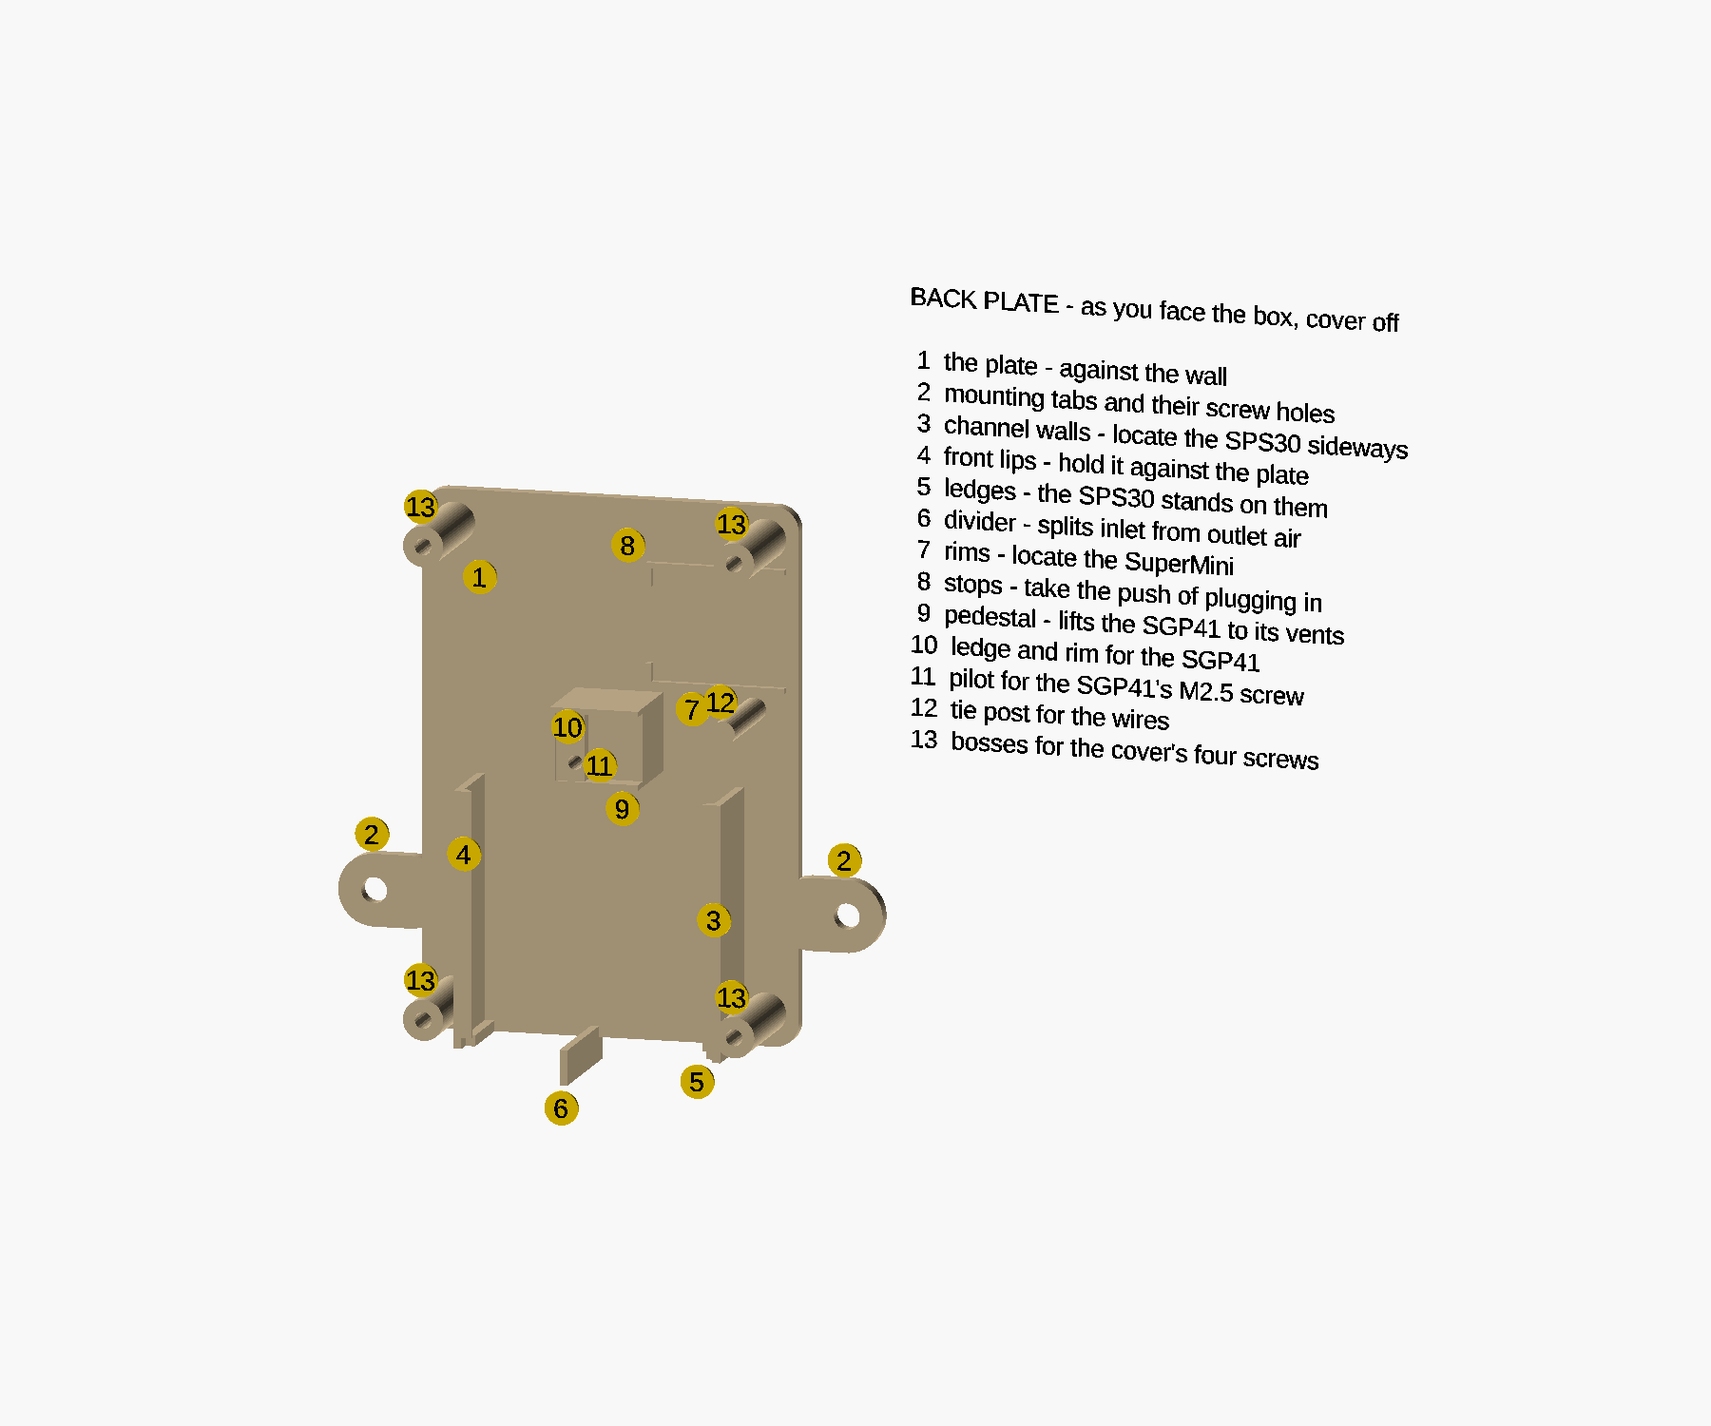
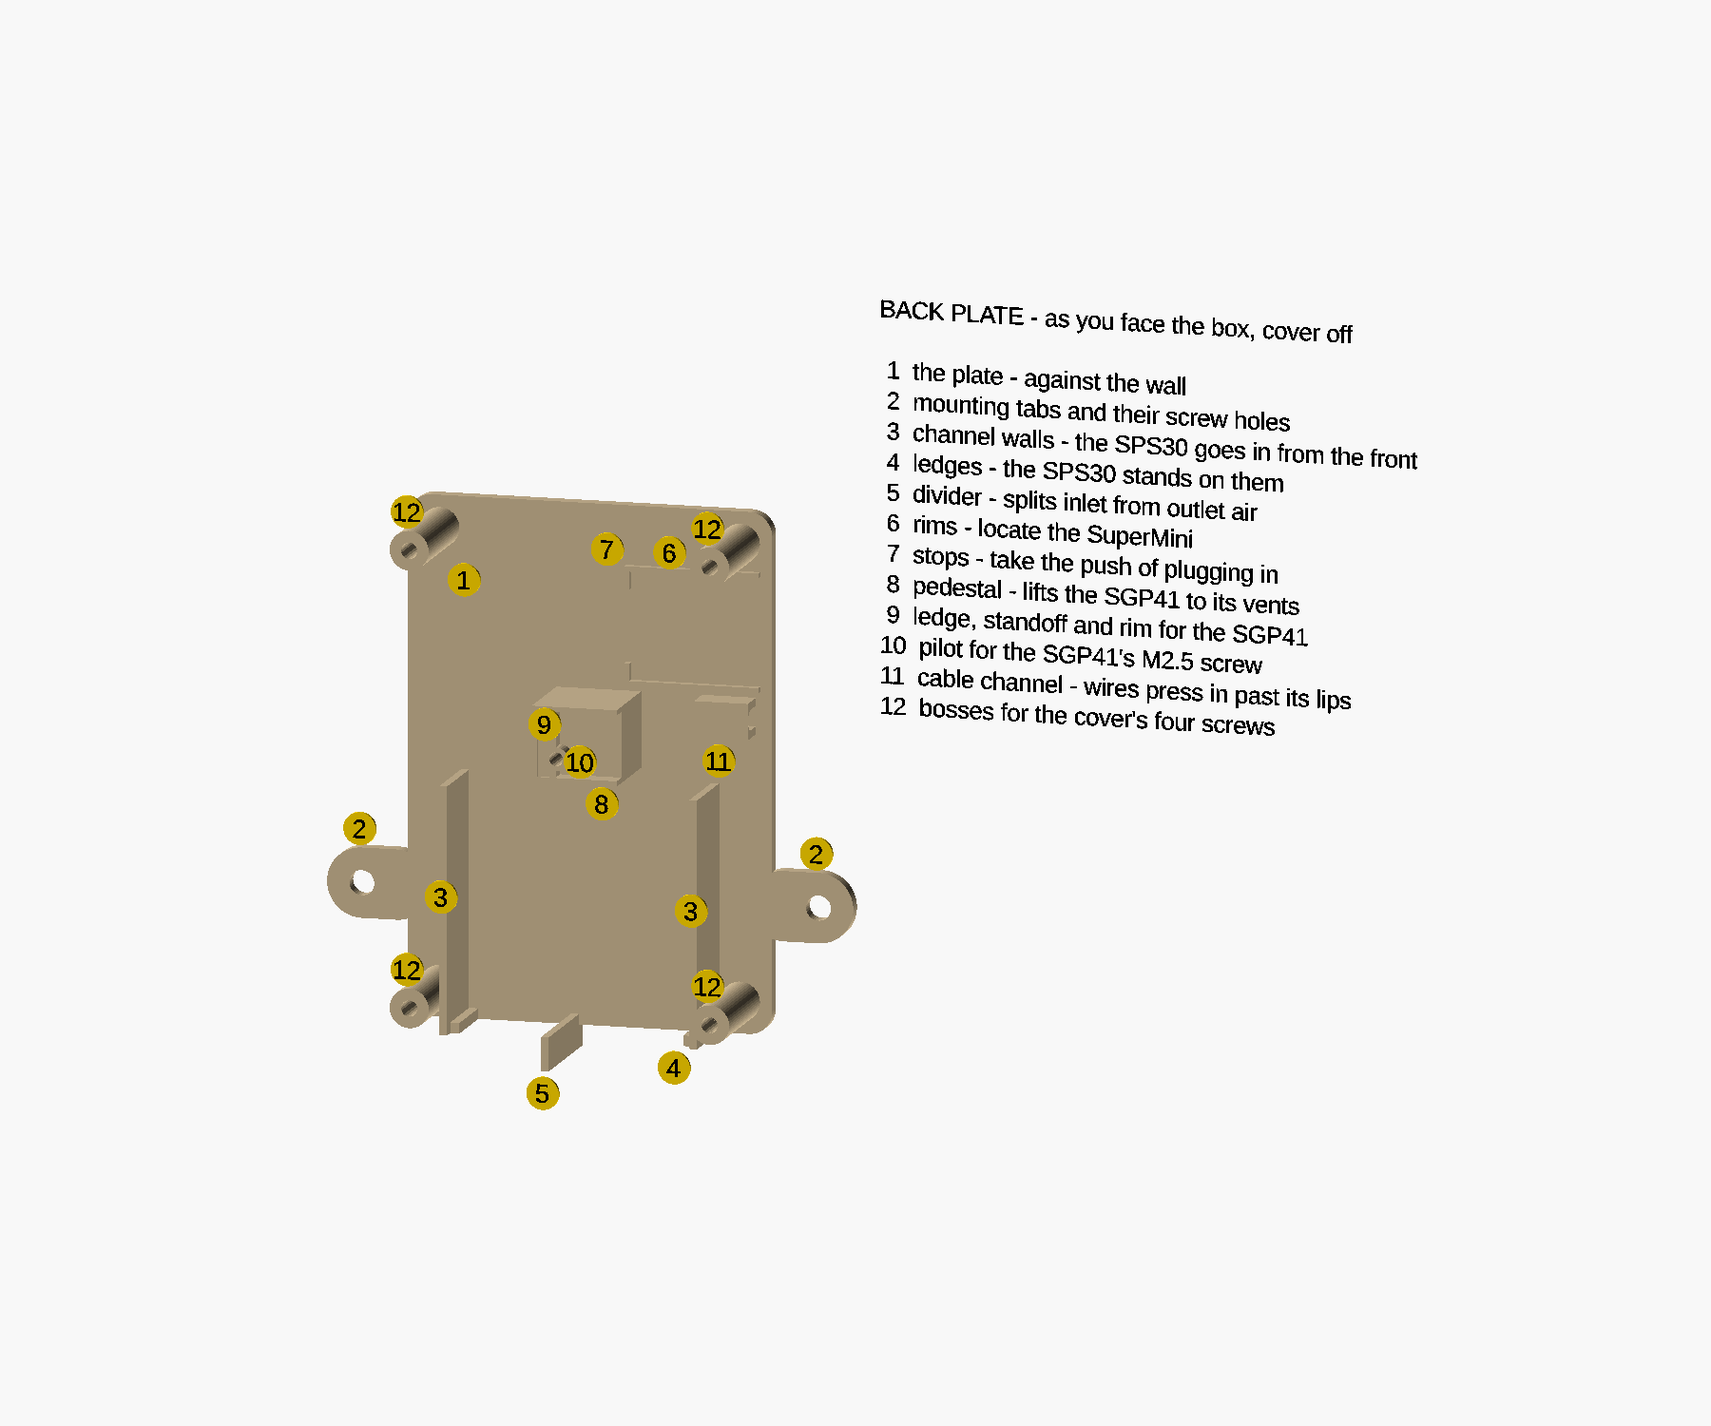
fix(models): print-chamber box - SPS30 in from the front; SGP41 clear
Three faults from Alon's review of the feature map, 2 Oct 2026.

The SPS30 could not be fitted. Its channel's front lips overlapped its
face, so it had to slide down from above. In that path stood the board's
rims and stops, which sit above the channel wherever the board goes, and
the SGP41's pedestal. The lips are gone, and the sensor is set in from
the front. Once the cover is on, its partition rib, 0.3 mm off the
sensor's face, keeps it from tipping. A new check, check_insert,
intersects the back plate with the sensor's path in from the front. It
is empty in both mirror states, and the design as pushed gives 131.8 mm3
against it.

The SGP41's ledge sat under parts on its underside. gy_bare, read off
photo 2 as about 4.5 and then raised to 4.4 on a wrong argument, is
measured at 3.31: the nearest part from the far end. The ledge now stops
0.5 mm short of it. A 4 mm standoff under the mounting hole carries the
screw, inside a bare patch read off photo 2 (gy_hole_bare_d, 5.2). The
collision model of the module's parts uses that patch as its own
setting, so a standoff too wide shows as a collision: gy_standoff_d 5.6
gives 2.8 mm3. Using the standoff's diameter for the patch would have
moved both together and could never have failed.

The tie post becomes a cable channel. Nothing pulls on the wires inside a
closed box, so the post was answering the wrong question. The channel
runs below the board's pin end, between the side wall and the lead's
[…]

Changed region(s): [[0.4978, 0.184, 0.84, 0.552], [0.1867, 0.3373, 0.5289, 0.7973]]

diff --git a/models/print-chamber-box/README.md b/models/print-chamber-box/README.md
@@ -10,7 +10,10 @@ Settled from photos, 2 Oct 2026: the SPS30's outlet is on your RIGHT as you face
 antenna wire stands out of the board's component side. Measured the same day: the SuperMini and the
 GY-SGP41. Also 2 Oct: the USB-C socket's mouth reaches the outside face, so **no cable needs measuring**
 (see [The USB-C end](#the-usb-c-end)); and the wiring round — the SGP41 raised to its vents beside the
-SPS30's lead, a tie post for the wires, and where every wire goes (see [Wiring](#wiring)).
+SPS30's lead, a channel for the wires, and where every wire goes (see [Wiring](#wiring)). Changed the
+same day after Alon's review: **the SPS30 goes in from the front** — the lips that held it made that
+impossible, and from above the board's rims and the pedestal were in the way — and the SGP41 rests on a
+ledge and a standoff clear of the parts on its underside.
 
 It houses the node in [`firmware/print-chamber.yaml`](../../firmware/print-chamber.yaml): an ESP32-C3
 SuperMini, a Sensirion SPS30 particle sensor and a GY-SGP41 VOC/NOx module.
@@ -70,7 +73,7 @@ Drawn from the model, as you face the box, for the sensor in hand (`outlet_at_le
                                    #  the divider: carries the sensor, separates the two
                                       ends, and stands divider_proud below the box
           "=" on the right wall: where the USB-C cable leaves, beside the board
-          ":" the column the SPS30's lead rises through; "(post)" the tie post every wire is tied to
+          ":" the column the SPS30's lead rises through; "(post)" the cable channel the wires lie in
           "]" the SGP41 on its pedestal, a few mm behind its vents in the cover's front
 ```
 
@@ -103,7 +106,8 @@ ends, which is one number to measure.
 | `gy_back` | **2.53** | the GY-SGP41 through its PCB and electronics, clamped beside the sensor: its height lying sensor-up |
 | `cable_zone_h` | **10** | above the SPS30's connector face, with the lead plugged in and bent over as tightly as it comfortably goes |
 | `conn_from`, `conn_to` | **2.0**, **10.5** | where the SPS30's plug and lead sit along its top face, from the outlet end. From photo 1, scaled against the sensor: the wires leave 3.0–8.6 mm from that end, and the housing reaches about 1 mm past each |
-| `gy_bare` | **4.4** | the bare strip at the GY-SGP41's far end, opposite its pins: every part on its underside is on the pin half. Photo 2 reads about 4.5 mm, and the mounting hole proves at least 4.45 — its far side is 1.32 + 3.13 mm from that end, and nothing is mounted round a mounting hole |
+| `gy_bare` | **3.31** | from the GY-SGP41's far end (opposite its pins) to the nearest part on its underside. The ledge stops 0.5 mm short of it. An earlier photo reading of about 4.5 put the ledge under the parts |
+| `gy_hole_bare_d` | **5.2** (photo) | the bare patch round the mounting hole on the underside: photo 2 puts the nearest parts beside and above the hole about 2.6 mm from its centre. The 4 mm standoff (`gy_standoff_d`) sits inside it |
 | `gy_hole_d` | **3.13** | the GY-SGP41's mounting hole, across |
 | `gy_hole_far`, `gy_hole_side` | **1.32**, **1.25** + half the hole | from the hole's edge to the module's far end (the short edge opposite its pins), and to the nearer long edge (the one away from the sensor). The file adds half the diameter to put the centre at 2.885 and 2.815 |
 
@@ -131,20 +135,23 @@ list there, which makes the model warn until it is measured.
 
 | Part | Prints | What it carries |
 |---|---|---|
-| **Back plate** — [`print-chamber-box-back.scad`](print-chamber-box-back.scad) | flat | two mounting tabs; a channel the SPS30 slides down into, with lips that keep it against the plate; a ledge under each end of the air face; the divider; the board's pocket, with two stops that take the push of plugging in; a pedestal that raises the SGP41 to its vents, with a ledge for its bare strip; a tie post for the wires; four bosses for the cover screws |
-| **Cover** — [`print-chamber-box-cover.scad`](print-chamber-box-cover.scad) | front face down | the window under the SPS30; the USB-C opening, in a stretch of wall thinned from inside with a chamfered step; vents in front of the SGP41 and the board; a partition that continues the divider up the air gap in front of the sensor; a baffle that closes that gap off from the warm compartment above |
+| **Back plate** — [`print-chamber-box-back.scad`](print-chamber-box-back.scad) | flat | two mounting tabs; a channel the SPS30 is set into from the front; a ledge under each end of its air face; the divider; the board's pocket, with two stops that take the push of plugging in; a pedestal that raises the SGP41 to its vents, with a ledge and a standoff for it; a cable channel for the wires; four bosses for the cover screws |
+| **Cover** — [`print-chamber-box-cover.scad`](print-chamber-box-cover.scad) | front face down | the window under the SPS30; the USB-C opening, in a stretch of wall thinned from inside with a chamfered step; vents in front of the SGP41 and the board; a partition that continues the divider up the air gap in front of the sensor, and keeps the SPS30 from tipping forward; a baffle that closes that gap off from the warm compartment above |
 
 Hardware: four **M3 × 14 self-tapping** screws close it, and two wood screws up to 3.5 mm hang it. **One
-M2.5 × 8 socket head cap screw** holds the SGP41 down through its mounting hole. One small cable tie, or a
-few turns of thread, ties the wires to the tie post. Double-sided tape holds the SuperMini on the plate;
-it is also held along its length — see below.
+M2.5 × 8 socket head cap screw** holds the SGP41 down through its mounting hole. Double-sided tape
+holds the SuperMini on the plate; it is also held along its length — see below.
+
+**The SPS30 goes in from the front**, before the cover: set it between the channel walls and onto its
+ledges. Nothing on the plate overhangs it — `check_insert` proves its path in is clear — and once the
+cover is on, its partition rib stands 0.3 mm off the sensor's face and keeps it from tipping forward.
 
 **No bridge over air in either part.** Every opening in the cover is a hole in its first layers or a
-notch open at its back edge. The slicer does report eight *bridge infill* regions in the back plate, and
+notch open at its back edge. The slicer does report seven *bridge infill* regions in the back plate, and
 each was traced: all are internal, the first solid layer over the part's own sparse infill — PrusaSlicer
-uses the same label for both. Five are in the plate and the bosses; the other three (2 Oct 2026) are the
-tops of the SGP41's pedestal and of its ledge, and the floor under its screw's blind pilot, each inside
-the pedestal. The cover reports none.
+uses the same label for both. Five are in the plate and the bosses; the other two (2 Oct 2026) are the
+top of the SGP41's pedestal and the floor under its screw's blind pilot, each inside the pedestal. The
+cable channel's 45° lips print with no overhang perimeters at all. The cover reports none.
 
 **"Left" and "right" mean as you face the box.** The model's frame is right-handed with Y out of the wall,
 so +X points to your left. The board's USB-C end faces the SPS30's connector, so with this sensor the
@@ -163,22 +170,22 @@ Drawn by [`feature-map.scad`](feature-map.scad), which includes the model, so th
    prints flat on the bed.
 2. **Mounting tabs** — one each side, with a hole for a wood screw up to 3.5 mm. 14 mm long, so the
    screwdriver's shaft clears the box's side.
-3. **Channel walls** — the SPS30 slides down between them and they hold it sideways.
-4. **Front lips** — overlap the sensor's front face by 1 mm so it cannot fall forward. Their 45°
-   undersides print without support.
-5. **Ledges** — the sensor stands on these, one under each end of its air face, clear of the openings.
-6. **Divider** — carries the middle of the sensor and splits its inlet side from its outlet side. It
+3. **Channel walls** — the SPS30 is set between them from the front, and they hold it sideways. No lips:
+   anything overhanging its face would have to be slid past, and from above the way is blocked.
+4. **Ledges** — the sensor stands on these, one under each end of its air face, clear of the openings.
+5. **Divider** — carries the middle of the sensor and splits its inlet side from its outlet side. It
    stands 4 mm proud below the box, so the outlet's air cannot loop straight back into the inlets.
-7. **Rims** — two low rails that locate the SuperMini up and down.
-8. **Stops** — over the two corners of the board's antenna end. They take the push of plugging the USB-C
+6. **Rims** — two low rails that locate the SuperMini up and down.
+7. **Stops** — over the two corners of the board's antenna end. They take the push of plugging the USB-C
    cable in; the middle stays open for the antenna loop.
-9. **Pedestal** — lifts the SGP41 forward, so its sensor sits 2–3 mm behind its vents instead of 16 mm.
-10. **Ledge and rim** — the SGP41 rests only on the bare strip at its far end, so its parts carry no load.
-    The rim locates it on three sides and is open at the pin end, where the wires leave.
-11. **Pilot** — for the M2.5 × 8 screw through the module's mounting hole.
-12. **Tie post** — the wires are tied to it, so a tug stops here instead of at the SuperMini's solder pads.
-    The cover caps its top, so a tie cannot slip off.
-13. **Bosses** — the cover's four M3 × 14 self-tapping screws bite into these. Their pilots are blind, so
+8. **Pedestal** — lifts the SGP41 forward, so its sensor sits 2–3 mm behind its vents instead of 16 mm.
+9. **Ledge, standoff and rim** — the SGP41 rests on a strip along its far end, kept 0.5 mm short of the
+   parts on its underside, and on a round standoff under its mounting hole. The rim locates it on three
+   sides and is open at the pin end, where the wires leave.
+10. **Pilot** — for the M2.5 × 8 screw through the module's mounting hole into the standoff.
+11. **Cable channel** — the wires from both sensors lie in it on their way to the board's pins. They press
+    in past a 45-degree lip on each wall and stay put; no tie needed.
+12. **Bosses** — the cover's four M3 × 14 self-tapping screws bite into these. Their pilots are blind, so
     the back of the plate stays whole.
 
 ![the cover from inside, numbered](feature-map-cover.png)
@@ -199,7 +206,8 @@ you face it:
    reaches the outside. The board's corners bear on it when a plug is pulled; the 45° step keeps a crack
    from starting.
 8. **Partition** — continues the divider up the air gap in front of the sensor, so the inlet air and the
-   outlet air stay apart.
+   outlet air stay apart. It stands 0.3 mm off the sensor's face, so it also keeps the SPS30 from tipping
+   forward now that the plate has no lips.
 9. **Baffle** — closes that air gap off from the compartment above, so the board's warmth does not drift
    down into the sensor's air.
 10. **Rounded corners** — ASA lifts at sharp corners; the radius is what lets both parts print without a
@@ -247,16 +255,18 @@ would sit 16 mm behind its vents and measure the box's own air, warmed by the bo
 It stands just left of the SPS30's lead, in the zone between the sensor and the board, with its pins
 towards the board's pin end, so its four wires head straight there.
 
-**Only the bare strip at its far end rests on anything.** All the parts on its underside are on the pin
-half; the far `gy_bare` (4 mm) is bare. A ledge carries that strip, so the parts never bear load, and its
-pin end overhangs. The ledge is tall enough that the parts on the thinnest plausible board clear the floor
+**It rests on two bare patches of its underside, so its parts never bear load.** One is the strip along
+its far end: the nearest part is 3.31 mm in (`gy_bare`, measured), and the ledge stops 0.5 mm short of it.
+The other is round the mounting hole, where a 4 mm standoff carries it. Its pin end overhangs. The ledge is tall enough that the parts on the thinnest plausible board clear the floor
 by `gap` (1 mm): the floor prints as a solid skin over infill and can come out a few tenths uneven.
 Because the board touches nothing but the ledge and a rim on three sides, its thickness does not matter:
 anywhere from `gy_pcb_min` to `gy_pcb_max`, the rim catches its edge and the room in front is kept. The
 rim is open at the pin end, where the wires leave.
 
-**An M2.5 × 8 screw holds it down, through its mounting hole into a blind 7.6 mm pilot in the ledge.**
-The hole is in the bare strip, by the long edge away from the sensor, so the screw clamps only bare board.
+**An M2.5 × 8 screw holds it down, through its mounting hole into a blind 7.6 mm pilot in the standoff.**
+The hole is by the long edge away from the sensor, and the screw clamps only the bare patch round it. That
+patch's size is a photo reading (`gy_hole_bare_d`), and the collision check treats its edge as where the
+parts begin.
 Its 4.5 mm head clears the sensor: checked with the screw in the hole, 2 Oct 2026. The hole is 3.13 mm,
 so the M2.5 screw passes it with room to spare, and the rim, not the screw, locates the module. Which edge
 of the pocket the hole sits by comes from photo 1, so the pilot is only as right as that reading; seat the
@@ -297,16 +307,14 @@ Why the SGP41's VIN must be 3V3 is in the same file.
 **The routes:**
 
 - **The SPS30's lead** rises from its plug at the outlet end and bends over towards the right wall. Its
-  column is kept clear: the SGP41's pedestal stands to its left, and the tie post above its bend.
+  column is kept clear: the SGP41's pedestal stands to its left, and the cable channel to its right.
   **Shorten the lead** so it reaches the board with about a centimetre to spare, rather than coiling it:
   the SPS30 has a fan, and a slack lead buzzes.
-- **The SGP41's wires** are soldered from its sensor side, bent flat towards the right, and run to the tie
-  post.
-- **At the tie post**, below the board's pin end, tie all the wires to the post with one small cable tie
-  or a few turns of thread. A tug on either sensor then stops at the post, not at the SuperMini's pads,
-  which are small and lift easily. The post runs from the plate to just short of the cover's front, so a
-  tie cannot slide off its end. **Pull the tie snug, not tight:** the post is a 4 mm pillar 19.5 mm tall.
-- **From the post to the pins:** 5V, GND and 3V3 are on the board's lower edge, right above the post.
+- **The SGP41's wires** are soldered from its sensor side, bent flat towards the right, and run to the
+  cable channel.
+- **In the cable channel**, below the board's pin end, press all nine wires in past its lips. It holds
+  them in place; nothing pulls on them inside a closed box, so it does not need to grip.
+- **From the channel to the pins:** 5V, GND and 3V3 are on the board's lower edge, right above it.
   GPIO5 and GPIO6 are on its upper edge, so their wires cross the board's front **over its USB-C end**.
 - **Never:** across the board's antenna half, in front of the antenna wire, or anywhere in the window or
   the air gap in front of the SPS30.
@@ -363,21 +371,26 @@ Both should report one manifold part and `fdm_*` matching the profile - the back
 with its tabs, the cover 62.8 mm. **Exit 2 is expected** while the
 `unmeasured` and `untested_fits` lists are not empty; exit 0 means both are clear.
 
-Two more checks, which `scad-check.sh` does not run:
+Three more checks, which `scad-check.sh` does not run:
 
 - `-D 'part="check_parts"'` intersects the two parts. The result must have **zero volume** — they meet at
   the plate's face and the boss tops, and nowhere else. Positive controls: `part_fit = -0.6` measured
-  385.1 mm³, and `gz0 = 43.5` (the SGP41's pedestal lowered into the cover's baffle) 48.6 mm³, so the
+  373.8 mm³, and `gz0 = 44.5` (the SGP41's pedestal lowered into the cover's baffle) 21.7 mm³, so the
   check does see a real overlap.
 - `-D 'part="check_components"'` intersects both parts with the sensor, the boards, the antenna wire
   and loop, the USB-C shell, the body of the largest compliant plug — seated with the board pushed
   against its stops — the column the SPS30's lead rises through, the SGP41 at every board thickness
   within the bounds, and its screw's head. It must be **empty**. Positive controls: `sm_pocket_h = 17` (a
   pocket narrower than the board) measured 26.8 mm³, `gx0 = 15` (the pedestal moved into the lead's
-  column) 642.5 mm³, `gy_ledge_x0 = 26.6` (the ledge reaching under the SGP41's parts) 90.6 mm³, and
-  `gy_floor = 17` (the SGP41 pushed towards the cover, its screw's head into the front) 12.5 mm³. Stops
-  reaching into the antenna loop, a tie post on the wrong side of the lead, and a mounting hole too small
-  for the screw or off the bare strip are caught earlier, by asserts.
+  column) 642.5 mm³, `gy_strip = 4` (the ledge reaching under the SGP41's parts) 6.5 mm³,
+  `gy_standoff_d = 5.6` (the standoff wider than the bare patch) 2.8 mm³, `wch_x1 = 16` (the cable channel
+  into the lead's column) 18.5 mm³, and `gy_floor = 17` (the SGP41 pushed towards the cover, its screw's
+  head into the front) 12.5 mm³. Stops reaching into the antenna loop and a mounting hole too small for the
+  screw are caught earlier, by asserts.
+- `-D 'part="check_insert"'` intersects the back plate with the SPS30's path in from the front — its
+  outline, nubs included, swept from its seat to the cover's front. It must be **empty**. Positive
+  control: the design before 2 Oct 2026's review, with its front lips, measured 131.8 mm³ — which is
+  why the sensor could not have been fitted.
 
 Run both with `outlet_at_left` set each way, too (`-D outlet_at_left=true`). The model mirrors, and a
 check run one way only has passed a mirrored mistake before.
